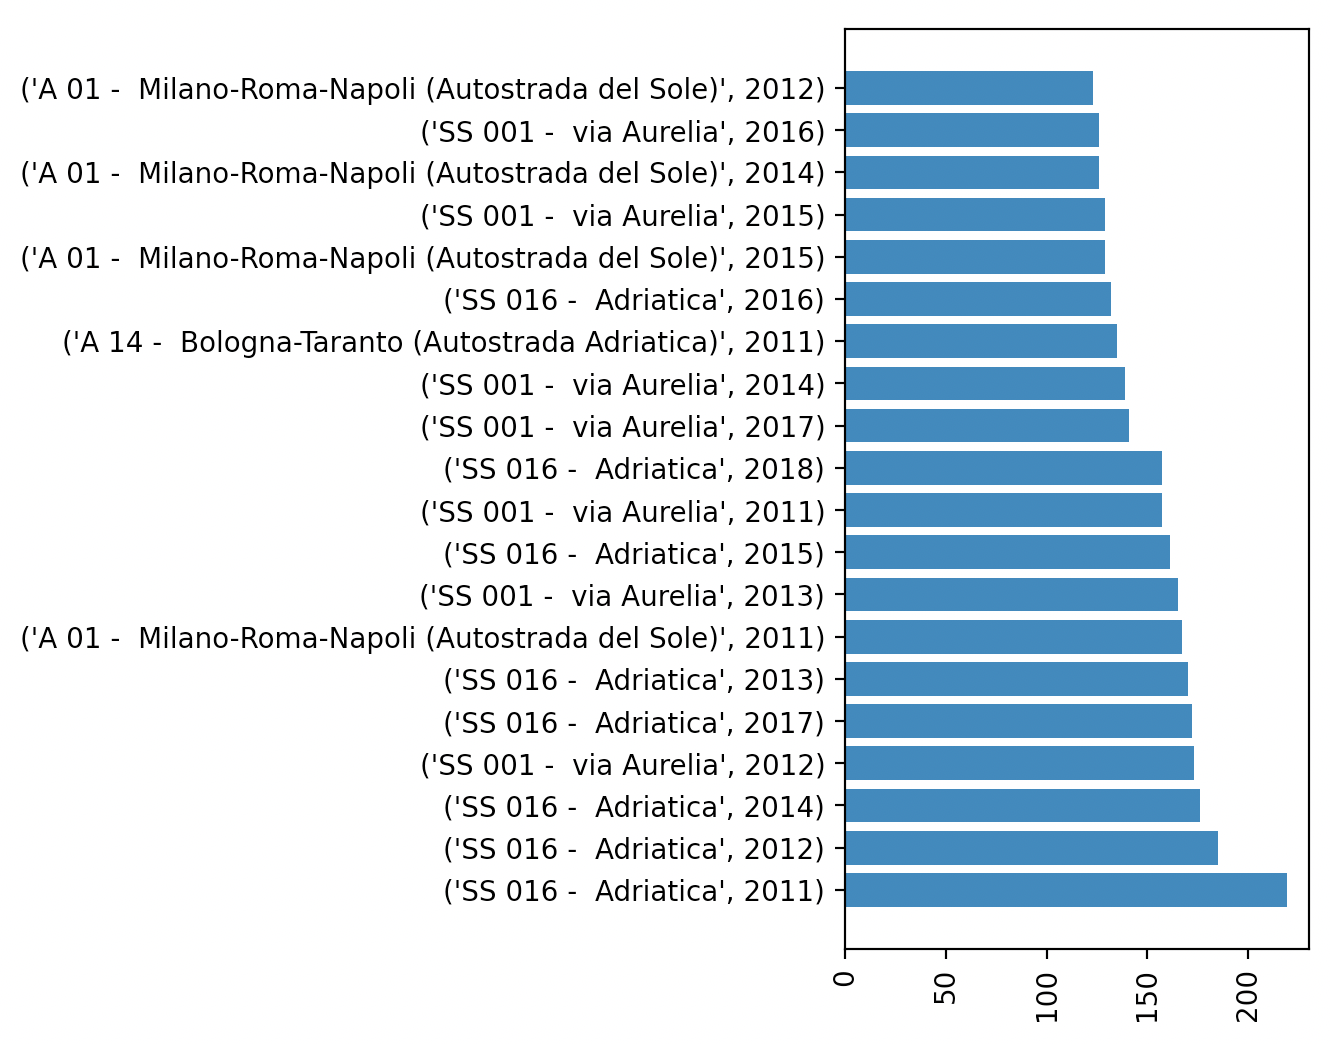
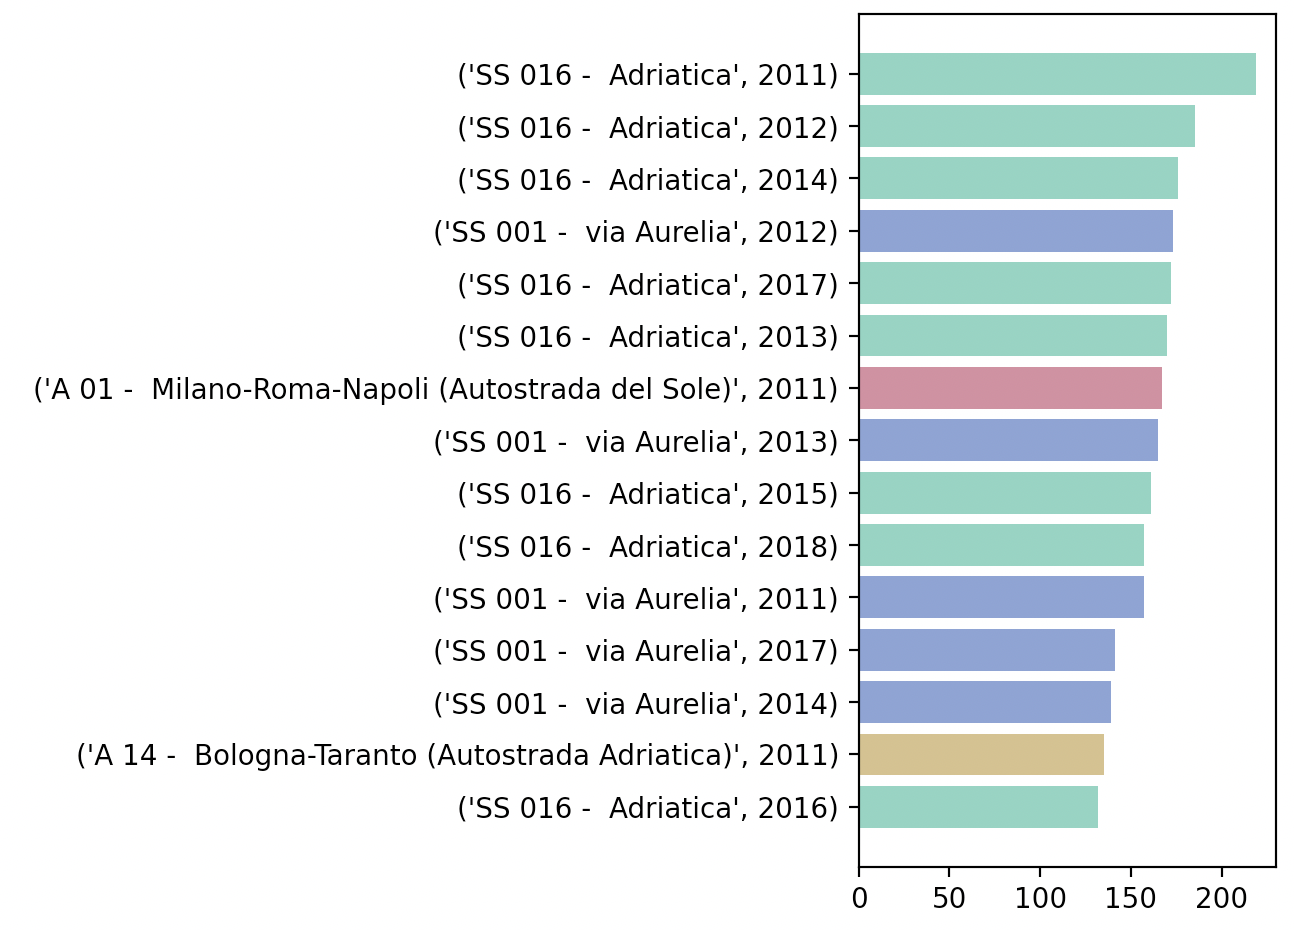
modifiche a grafi

diff --git a/src/incidenti/incidenti_aci/agosto/autostrade_anno_agosto.py b/src/incidenti/incidenti_aci/agosto/autostrade_anno_agosto.py
@@ -1,0 +1,40 @@
+
+import pandas as pd
+import matplotlib.pyplot as plt
+import sys
+sys.path.append('src')
+import aci_utils
+
+path = "dataset/incidenti/aci/autostrade/mesi_"
+
+agosto = pd.DataFrame()
+
+for year in range(2011, 2019):
+    print("Processing: " + str(year))
+    data = pd.read_csv(path + str(year) + ".csv")
+    data['Anno'] = [year] * len(data)
+    agosto_temp = pd.DataFrame()
+    agosto_temp = agosto_temp.append(data[['NOME STRADA', 'Anno', 'Agosto']])
+
+    agosto_temp = aci_utils.sum_field_by_two_columns(agosto_temp, 'NOME STRADA', 'Anno', 'Agosto')
+    agosto_temp = agosto_temp[aci_utils.filter_by_value(agosto_temp['NOME STRADA_Anno'], str(year))]
+    agosto_temp = agosto_temp.sort_values(by='Value', ascending=False)
+
+    agosto = agosto.append(agosto_temp)
+
+agosto = agosto.sort_values(by='Value', ascending=True).tail(15)
+
+color_ls = ['#79ceb6'] * 15
+color_ls[11] = '#7991ce'
+color_ls[7] = '#7991ce'
+color_ls[4] = '#7991ce'
+color_ls[3] = '#7991ce'
+color_ls[2] = '#7991ce'
+color_ls[8] = '#ce7991'
+color_ls[1] = '#ceb679'
+
+
+plt.barh(agosto['NOME STRADA_Anno'].astype(str), agosto['Value'], color=color_ls)
+plt.xticks(rotation=0)
+plt.tight_layout()
+plt.show()

diff --git a/src/incidenti/incidenti_aci/agosto/agosto.py b/src/incidenti/incidenti_aci/agosto/agosto.py
@@ -7,25 +7,6 @@ import aci_utils
 
 path = "dataset/incidenti/aci/autostrade/mesi_"
 
-agosto = pd.DataFrame()
-
-for year in range(2011, 2012):
-    data = pd.read_csv(path + str(year) + ".csv")
-    data['Anno'] = [year] * len(data)
-    agosto = agosto.append(data[['NOME STRADA', 'Anno', 'Agosto']])
-
-
-#print(aci_utils.two_cols_unique(data[['NOME STRADA', 'Anno']]))
-
-    #agosto = aci_utils.sum_field_by_two_columns(agosto, 'NOME STRADA', 'Anno', 'Agosto')
-    #agosto = agosto[aci_utils.filter_by_value(agosto['NOME STRADA_Anno'], str(year))]
-    #agosto = agosto.sort_values(by='Value', ascending=False).head(5)
-#
-    #plt.barh(agosto['Nome e Anno'].astype(str), agosto['Inc'])
-    #plt.xticks(rotation=90)
-    #plt.tight_layout()
-    #plt.show()
-
 s = 0
 index = 1
 for year in range(2011, 2019): 
